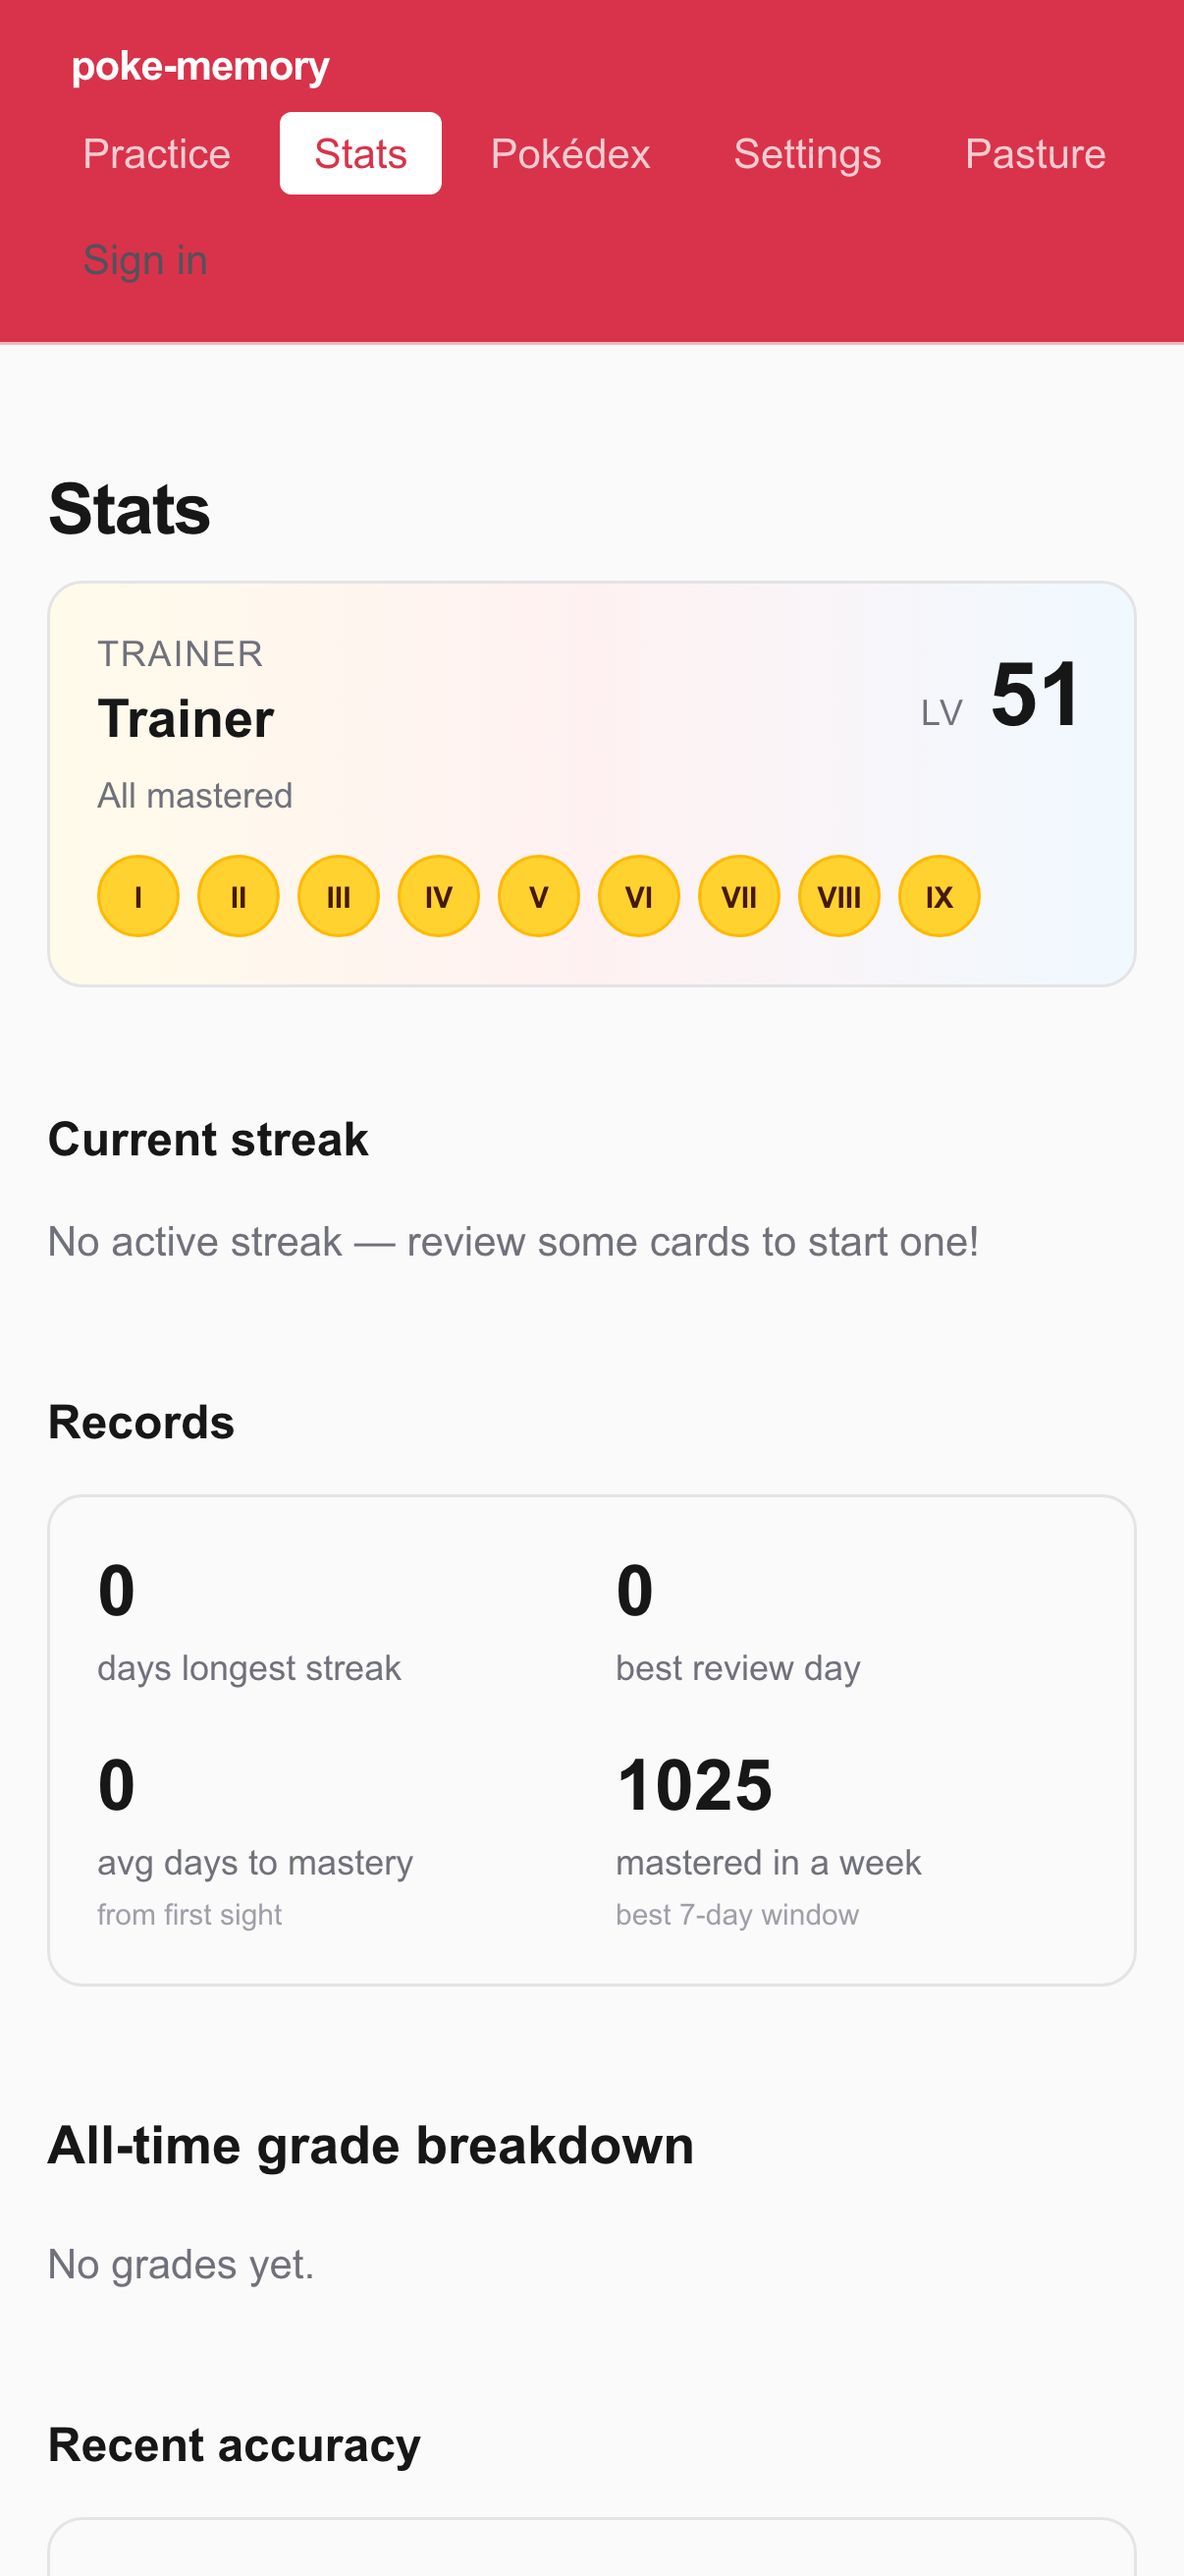
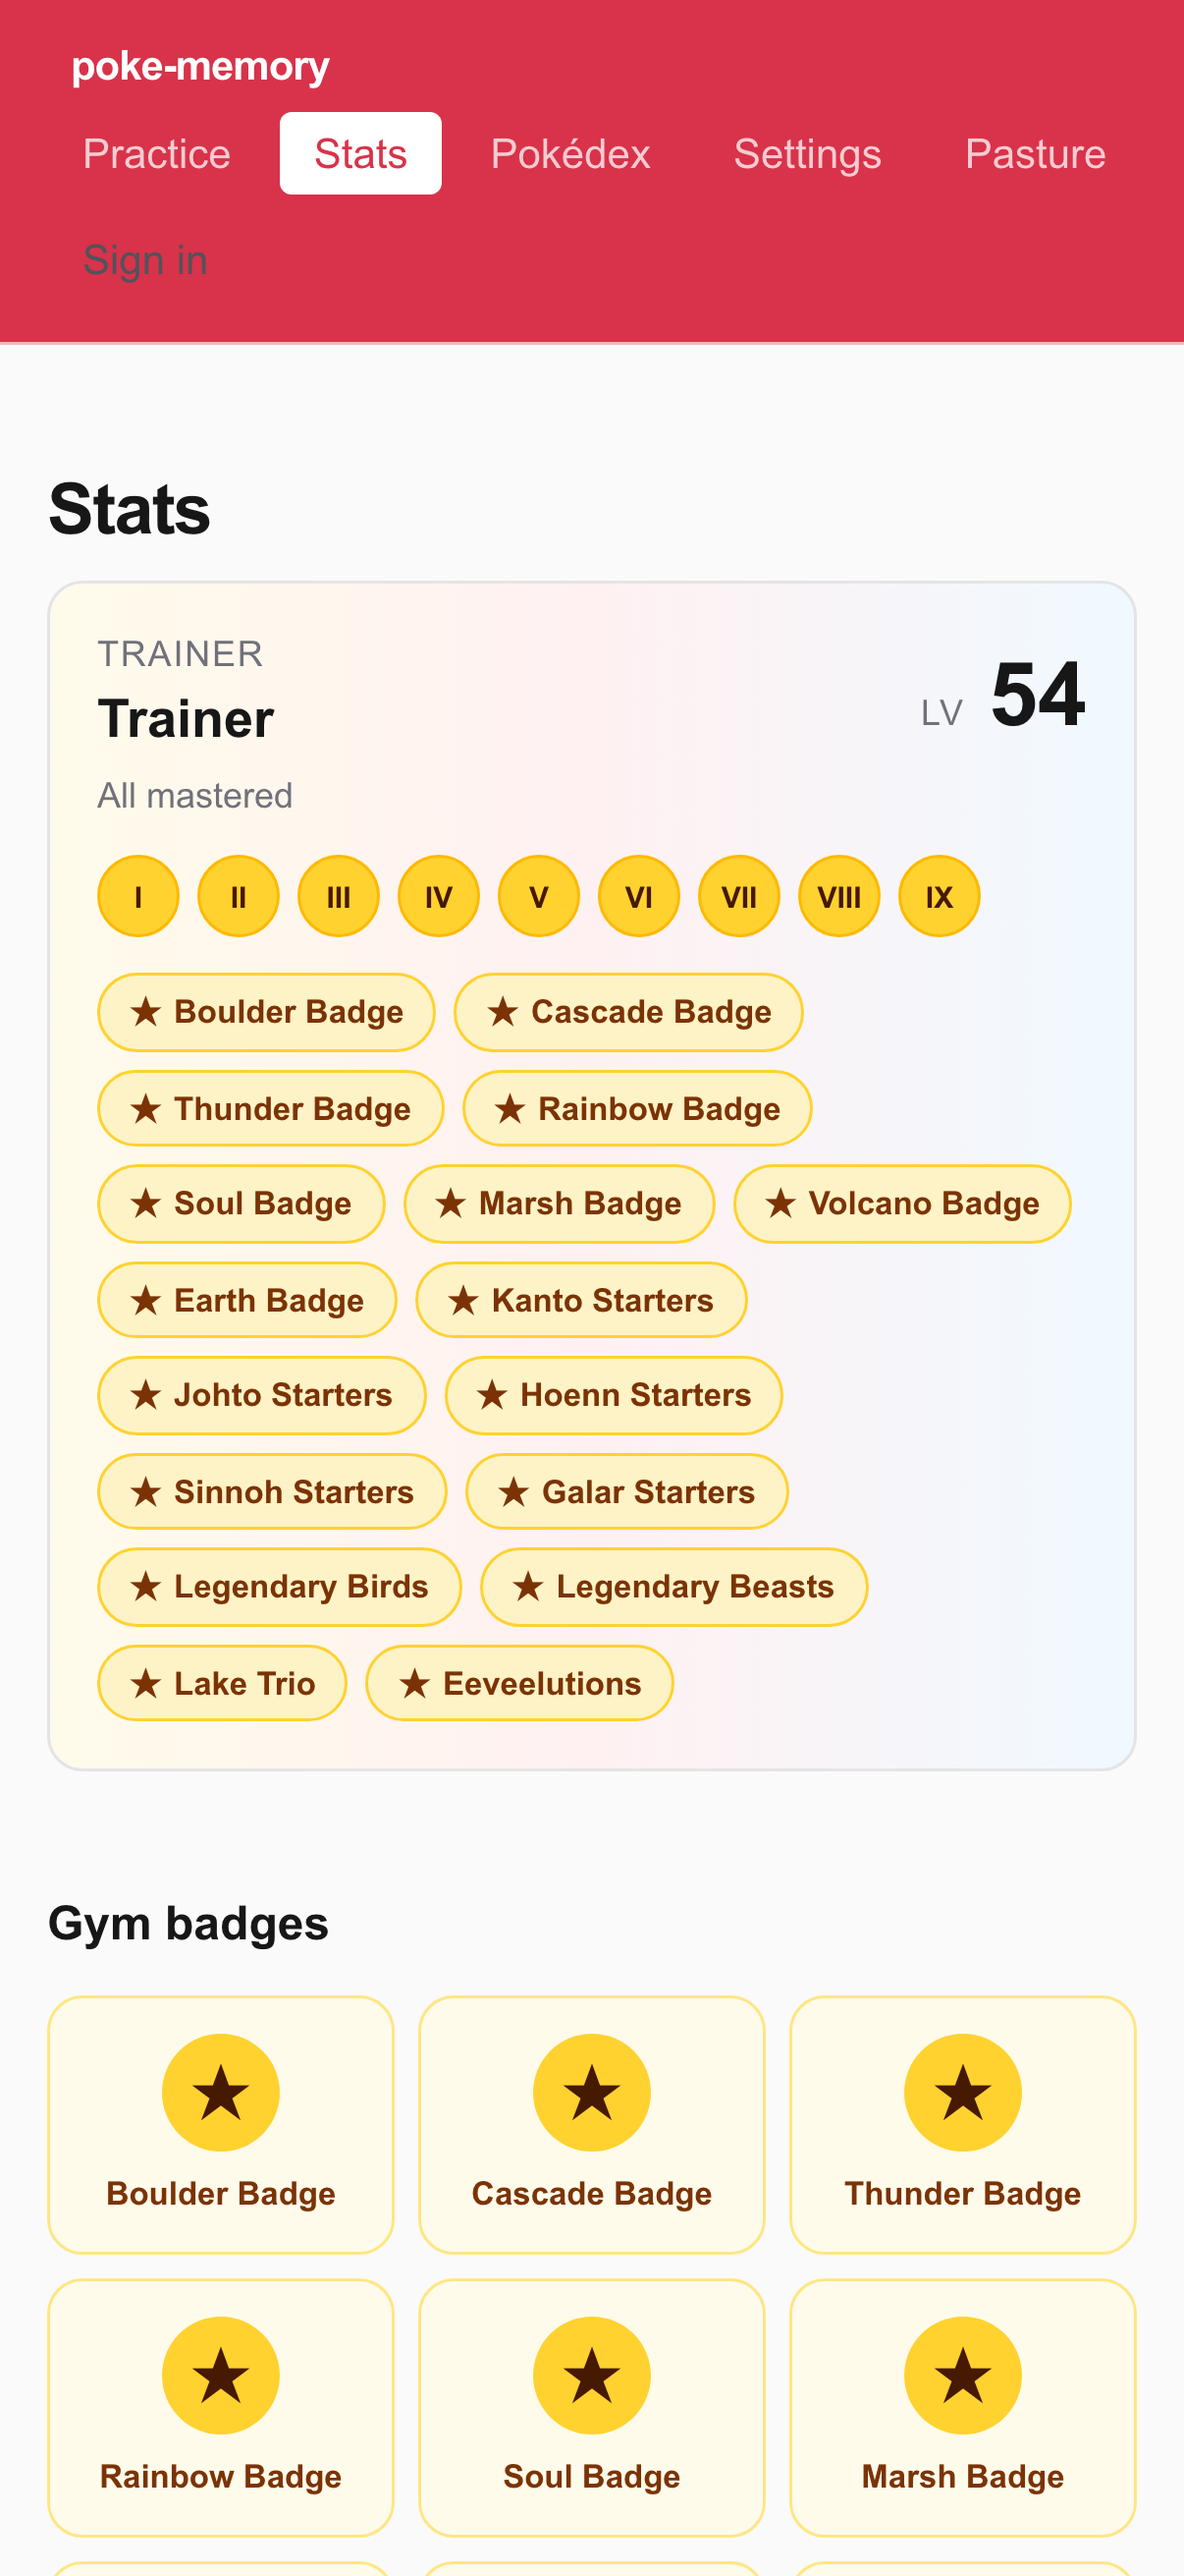
Add gym-badge gallery to Stats page (earned in colour, locked with vague hints) (#642)
* closes #539

Add gym-badge gallery to Stats page showing locked badges with vague hints

* docs: regenerate stats screenshot showing badge gallery; add hydration wait to capture script

* fix: preserve badge name in locked aria-label; fail loudly on screenshot navigation error

- BadgeGalleryCard locked tile aria-label changes from "${lockedHint} — Locked"
  to "${badge.name} (locked): ${lockedHint}" so screen readers always have the
  badge name available regardless of lock state (#539 follow-up)
- capture-screenshots.mjs now exits non-zero on genuine navigation failures
  (non-Timeout errors); networkidle timeouts from background polling are still
  silently ignored
- e2e/stats.spec.ts assertion updated to match new aria-label pattern

diff --git a/lib/badges/catalog.ts b/lib/badges/catalog.ts
@@ -23,6 +23,11 @@ export type BadgeDefinition = {
   id: string;
   name: string;
   description: string;
+  /**
+   * Short teaser shown when the badge is locked. Evocative but non-spoiler —
+   * hints at the theme without revealing the exact mastery criterion.
+   */
+  lockedHint: string;
   criterion: BadgeCriterion;
 };
 
@@ -34,48 +39,56 @@ export const BADGE_CATALOG: readonly BadgeDefinition[] = [
     id: "boulder-badge",
     name: "Boulder Badge",
     description: "You've mastered Brock's roster.",
+    lockedHint: "A Kanto gym leader's rocky roster…",
     criterion: { kind: "all-mastered", speciesIds: [74, 95] },
   },
   {
     id: "cascade-badge",
     name: "Cascade Badge",
     description: "You've mastered Misty's roster.",
+    lockedHint: "A Cerulean gym leader favours the sea…",
     criterion: { kind: "all-mastered", speciesIds: [120, 121] },
   },
   {
     id: "thunder-badge",
     name: "Thunder Badge",
     description: "You've mastered Lt. Surge's electric roster.",
+    lockedHint: "A Vermilion commander sparks with voltage…",
     criterion: { kind: "all-mastered", speciesIds: [26, 100] },
   },
   {
     id: "rainbow-badge",
     name: "Rainbow Badge",
     description: "You've mastered Erika's grass roster.",
+    lockedHint: "A Celadon gym leader tends her garden…",
     criterion: { kind: "all-mastered", speciesIds: [70, 71] },
   },
   {
     id: "soul-badge",
     name: "Soul Badge",
     description: "You've mastered Koga's poison roster.",
+    lockedHint: "A Fuchsia ninja deals in hidden toxins…",
     criterion: { kind: "all-mastered", speciesIds: [49, 110] },
   },
   {
     id: "marsh-badge",
     name: "Marsh Badge",
     description: "You've mastered Sabrina's psychic roster.",
+    lockedHint: "A Saffron psychic bends minds and matter…",
     criterion: { kind: "all-mastered", speciesIds: [63, 65] },
   },
   {
     id: "volcano-badge",
     name: "Volcano Badge",
     description: "You've mastered Blaine's fire roster.",
+    lockedHint: "A Cinnabar island quiz master commands fire…",
     criterion: { kind: "all-mastered", speciesIds: [59, 78] },
   },
   {
     id: "earth-badge",
     name: "Earth Badge",
     description: "You've mastered Giovanni's ground roster.",
+    lockedHint: "A Viridian leader of shadowy reputation…",
     criterion: { kind: "all-mastered", speciesIds: [76, 112] },
   },
 
@@ -84,12 +97,14 @@ export const BADGE_CATALOG: readonly BadgeDefinition[] = [
     id: "kanto-starters",
     name: "Kanto Starters",
     description: "Bulbasaur, Charmander, Squirtle and their final evolutions.",
+    lockedHint: "Three Kanto partners and the paths they grow into…",
     criterion: { kind: "all-mastered", speciesIds: [1, 3, 4, 6, 7, 9] },
   },
   {
     id: "johto-starters",
     name: "Johto Starters",
     description: "Chikorita, Cyndaquil, Totodile and their final evolutions.",
+    lockedHint: "Three Johto companions and their final forms…",
     criterion: {
       kind: "all-mastered",
       speciesIds: [152, 154, 155, 157, 158, 160],
@@ -99,6 +114,7 @@ export const BADGE_CATALOG: readonly BadgeDefinition[] = [
     id: "hoenn-starters",
     name: "Hoenn Starters",
     description: "Treecko, Torchic, Mudkip and their final evolutions.",
+    lockedHint: "Three Hoenn beginnings and where they lead…",
     criterion: {
       kind: "all-mastered",
       speciesIds: [252, 254, 255, 257, 258, 260],
@@ -108,6 +124,7 @@ export const BADGE_CATALOG: readonly BadgeDefinition[] = [
     id: "sinnoh-starters",
     name: "Sinnoh Starters",
     description: "Turtwig, Chimchar, Piplup and their final evolutions.",
+    lockedHint: "Three Sinnoh starters and their evolved destinies…",
     criterion: {
       kind: "all-mastered",
       speciesIds: [387, 389, 390, 392, 393, 395],
@@ -117,6 +134,7 @@ export const BADGE_CATALOG: readonly BadgeDefinition[] = [
     id: "galar-starters",
     name: "Galar Starters",
     description: "Grookey, Scorbunny, Sobble and their final evolutions.",
+    lockedHint: "Three Galar rivals and the champions they become…",
     criterion: {
       kind: "all-mastered",
       speciesIds: [810, 812, 813, 815, 816, 818],
@@ -126,24 +144,28 @@ export const BADGE_CATALOG: readonly BadgeDefinition[] = [
     id: "legendary-birds",
     name: "Legendary Birds",
     description: "Articuno, Zapdos, and Moltres.",
+    lockedHint: "Three legendary wings soar above Kanto…",
     criterion: { kind: "all-mastered", speciesIds: [144, 145, 146] },
   },
   {
     id: "legendary-beasts",
     name: "Legendary Beasts",
     description: "Raikou, Entei, and Suicune.",
+    lockedHint: "Three sacred beasts roam the Johto wilds…",
     criterion: { kind: "all-mastered", speciesIds: [243, 244, 245] },
   },
   {
     id: "lake-trio",
     name: "Lake Trio",
     description: "Uxie, Mesprit, and Azelf — the lake guardians of Sinnoh.",
+    lockedHint: "Three spirits dwell in Sinnoh's still waters…",
     criterion: { kind: "all-mastered", speciesIds: [480, 481, 482] },
   },
   {
     id: "eeveelutions",
     name: "Eeveelutions",
     description: "Eevee and all eight of its evolutions.",
+    lockedHint: "One adaptable Pokémon and the many paths it can take…",
     criterion: {
       kind: "all-mastered",
       speciesIds: [133, 134, 135, 136, 196, 197, 470, 471, 700],

diff --git a/e2e/stats.spec.ts b/e2e/stats.spec.ts
@@ -1,0 +1,56 @@
+import { test, expect, type Page } from "@playwright/test";
+
+async function seedSuperuser(
+  page: Page,
+  opts: { unlocked: boolean; pretendAllMastered: boolean },
+): Promise<void> {
+  await page.addInitScript((o) => {
+    if (o.unlocked) {
+      window.localStorage.setItem("poke-memory:superuser", "true");
+    } else {
+      window.localStorage.removeItem("poke-memory:superuser");
+    }
+    window.localStorage.setItem(
+      "poke-memory:superuser:flags:v1",
+      JSON.stringify({ pretendAllMastered: o.pretendAllMastered }),
+    );
+  }, opts);
+}
+
+test.describe("Stats page — badge gallery", () => {
+  test("badge gallery section is visible on the stats page", async ({
+    page,
+  }) => {
+    await page.goto("/stats");
+    // Wait for the page to hydrate past the loading skeleton — the heading
+    // only renders once stats are loaded.
+    await expect(
+      page.getByRole("heading", { level: 2, name: "Gym badges" }),
+    ).toBeVisible({ timeout: 15_000 });
+  });
+
+  test("locked badges show hint text", async ({ page }) => {
+    await page.goto("/stats");
+    await expect(
+      page.getByRole("heading", { level: 2, name: "Gym badges" }),
+    ).toBeVisible({ timeout: 15_000 });
+    // A fresh guest session has no earned badges; at least one locked tile
+    // should be present. The Boulder Badge is the first catalog entry.
+    await expect(
+      page.getByLabel(/Boulder Badge \(locked\):/i).first(),
+    ).toBeVisible();
+  });
+
+  test("pretendAllMastered shows all badges as earned", async ({ page }) => {
+    await seedSuperuser(page, { unlocked: true, pretendAllMastered: true });
+    await page.goto("/stats");
+    await expect(
+      page.getByRole("heading", { level: 2, name: "Gym badges" }),
+    ).toBeVisible({ timeout: 15_000 });
+    // Under the flag every badge tile has "— earned" in its accessible name.
+    // Boulder Badge is the first catalog entry.
+    await expect(
+      page.getByLabel("Boulder Badge — earned"),
+    ).toBeVisible();
+  });
+});

diff --git a/components/badges/BadgeGalleryCard.tsx b/components/badges/BadgeGalleryCard.tsx
@@ -1,0 +1,56 @@
+import type { BadgeDefinition } from "@/lib/badges/catalog";
+
+type Props = {
+  badge: BadgeDefinition;
+  earned: boolean;
+};
+
+/**
+ * A single tile in the gym-badge gallery on the Stats page (#539).
+ *
+ * Earned badges show full-colour artwork (the star + name in amber).
+ * Locked badges show a greyscale silhouette (the star in zinc) and the
+ * badge's `lockedHint` text in place of the description — evocative but
+ * non-spoiler.
+ *
+ * Accessibility: the accessible name is "${name} — earned" or
+ * "${name} (locked): ${hint}" so screen readers always have the badge name
+ * to anchor on, regardless of lock state.
+ */
+export function BadgeGalleryCard({ badge, earned }: Props) {
+  if (earned) {
+    return (
+      <li
+        aria-label={`${badge.name} — earned`}
+        className="flex flex-col items-center gap-2 rounded-xl border border-amber-200 bg-amber-50 p-3 text-center dark:border-amber-800/60 dark:bg-amber-950/30"
+      >
+        <span
+          aria-hidden="true"
+          className="flex h-10 w-10 items-center justify-center rounded-full bg-amber-300 text-xl font-bold text-amber-950 dark:bg-amber-400"
+        >
+          ★
+        </span>
+        <span className="text-[11px] font-semibold leading-tight text-amber-900 dark:text-amber-200">
+          {badge.name}
+        </span>
+      </li>
+    );
+  }
+
+  return (
+    <li
+      aria-label={`${badge.name} (locked): ${badge.lockedHint}`}
+      className="flex flex-col items-center gap-2 rounded-xl border border-zinc-200 bg-zinc-50 p-3 text-center dark:border-zinc-800 dark:bg-zinc-900/50"
+    >
+      <span
+        aria-hidden="true"
+        className="flex h-10 w-10 items-center justify-center rounded-full bg-zinc-200 text-xl font-bold text-zinc-400 dark:bg-zinc-800 dark:text-zinc-600"
+      >
+        ★
+      </span>
+      <span className="text-[11px] leading-tight text-zinc-400 dark:text-zinc-500">
+        {badge.lockedHint}
+      </span>
+    </li>
+  );
+}

diff --git a/components/badges/BadgeGallery.tsx b/components/badges/BadgeGallery.tsx
@@ -1,0 +1,54 @@
+import { BADGE_CATALOG, type BadgeDefinition } from "@/lib/badges/catalog";
+import { BadgeGalleryCard } from "@/components/badges/BadgeGalleryCard";
+
+type Props = {
+  /**
+   * The badge definitions that the user has already earned (in catalog order).
+   * When `forceAllMastered` is true this should be the full catalog so every
+   * tile renders earned — the superuser flag is honoured upstream by the caller.
+   */
+  earnedBadges: readonly BadgeDefinition[];
+  /**
+   * When true, every badge in the catalog is rendered as earned regardless
+   * of `earnedBadges`. Wires into the `pretendAllMastered` superuser flag
+   * per the AGENTS.md superuser-mode convention.
+   */
+  forceAllMastered?: boolean;
+};
+
+/**
+ * Full gym-badge gallery for the Stats page (#539). Shows every badge in
+ * BADGE_CATALOG in order. Earned badges render in colour; locked ones show
+ * a greyscale silhouette with a vague teaser hint.
+ *
+ * Rendered as a Server-Component-compatible pure function — no hooks, no
+ * client-side state. The parent Stats page (already 'use client') drives
+ * the earned/locked decision and passes it down.
+ */
+export function BadgeGallery({ earnedBadges, forceAllMastered = false }: Props) {
+  const earnedSet = new Set(earnedBadges.map((b) => b.id));
+
+  return (
+    <section aria-labelledby="badge-gallery-heading">
+      <h2
+        id="badge-gallery-heading"
+        className="mb-3 text-base font-semibold text-foreground"
+      >
+        Gym badges
+      </h2>
+      <ul
+        role="list"
+        className="grid grid-cols-3 gap-2 sm:grid-cols-4 md:grid-cols-5"
+        aria-label="Gym badge gallery"
+      >
+        {BADGE_CATALOG.map((badge) => (
+          <BadgeGalleryCard
+            key={badge.id}
+            badge={badge}
+            earned={forceAllMastered || earnedSet.has(badge.id)}
+          />
+        ))}
+      </ul>
+    </section>
+  );
+}

diff --git a/app/stats/page.tsx b/app/stats/page.tsx
@@ -31,6 +31,7 @@ import { computeRecords, type Records } from "@/lib/stats/records";
 import { ReviewHeatmap } from "@/components/stats/ReviewHeatmap";
 import { computeReviewHeatmap } from "@/lib/stats/heatmap";
 import { TrainerCard } from "@/components/stats/TrainerCard";
+import { BadgeGallery } from "@/components/badges/BadgeGallery";
 import { OnboardingHint } from "@/components/onboarding/OnboardingHint";
 import { SyncStatusLine } from "@/components/stats/SyncStatusLine";
 import { useAuth } from "@/lib/auth/AuthContext";
@@ -767,6 +768,10 @@ export default function StatsPage() {
               totalMastered={stats.mastered}
               perGeneration={stats.perGeneration}
               earnedBadges={badgesToShow}
+            />
+            <BadgeGallery
+              earnedBadges={badgesToShow}
+              forceAllMastered={flags.pretendAllMastered}
             />
             <section aria-labelledby="streak-heading">
               <h2 id="streak-heading" className="mb-3 text-base font-semibold text-foreground">

diff --git a/components/stats/TrainerCard.test.tsx b/components/stats/TrainerCard.test.tsx
@@ -185,12 +185,14 @@ describe("TrainerCard", () => {
             id: "eeveelutions",
             name: "Eeveelutions",
             description: "Eevee + all eight evolutions.",
+            lockedHint: "One adaptable Pokémon…",
             criterion: { kind: "all-mastered", speciesIds: [133] },
           },
           {
             id: "cascade-badge",
             name: "Cascade Badge",
             description: "x",
+            lockedHint: "A Cerulean gym leader favours the sea…",
             criterion: { kind: "all-mastered", speciesIds: [120, 121] },
           },
         ]}

diff --git a/lib/badges/check.test.ts b/lib/badges/check.test.ts
@@ -7,12 +7,14 @@ const CATALOG: readonly BadgeDefinition[] = [
     id: "birds",
     name: "Birds",
     description: "",
+    lockedHint: "Three legendary wings soar above Kanto…",
     criterion: { kind: "all-mastered", speciesIds: [144, 145, 146] },
   },
   {
     id: "starters",
     name: "Starters",
     description: "",
+    lockedHint: "Three Kanto partners and the paths they grow into…",
     criterion: { kind: "all-mastered", speciesIds: [1, 4, 7] },
   },
 ];

diff --git a/changelog.d/unreleased/539-badge-gallery.md b/changelog.d/unreleased/539-badge-gallery.md
@@ -1,0 +1,4 @@
+---
+kind: added
+---
+- Show all gym badges on the Stats page — earned in colour, locked as greyed silhouettes with a vague hint to keep the criteria a discoverable surprise.
